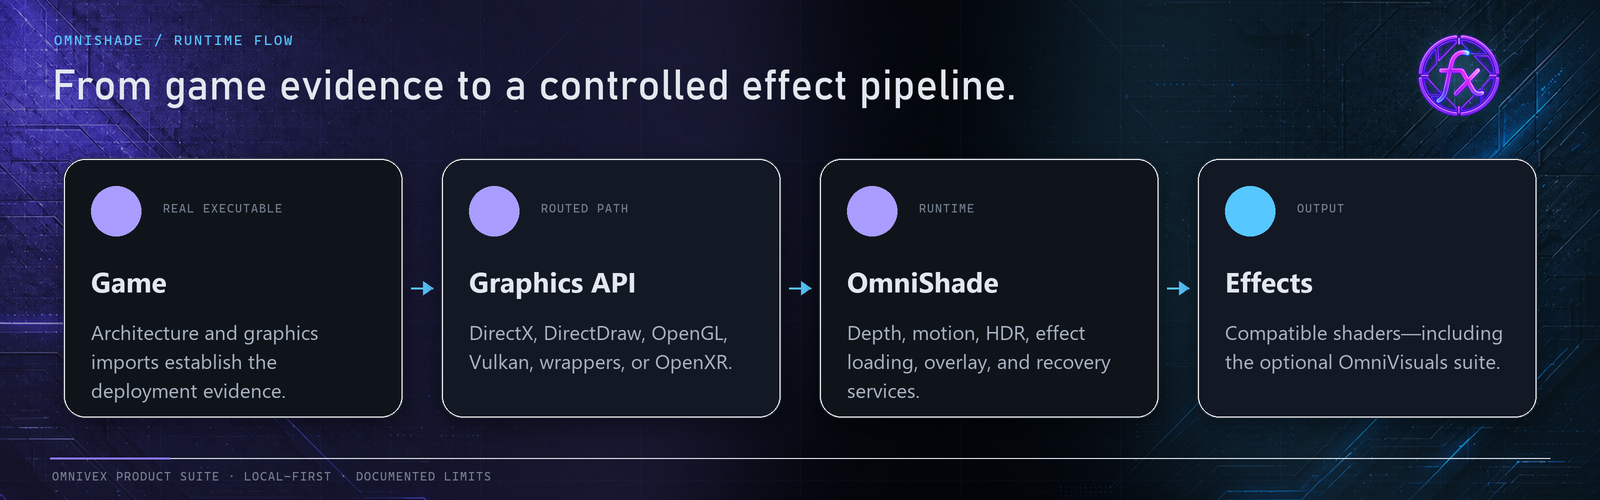
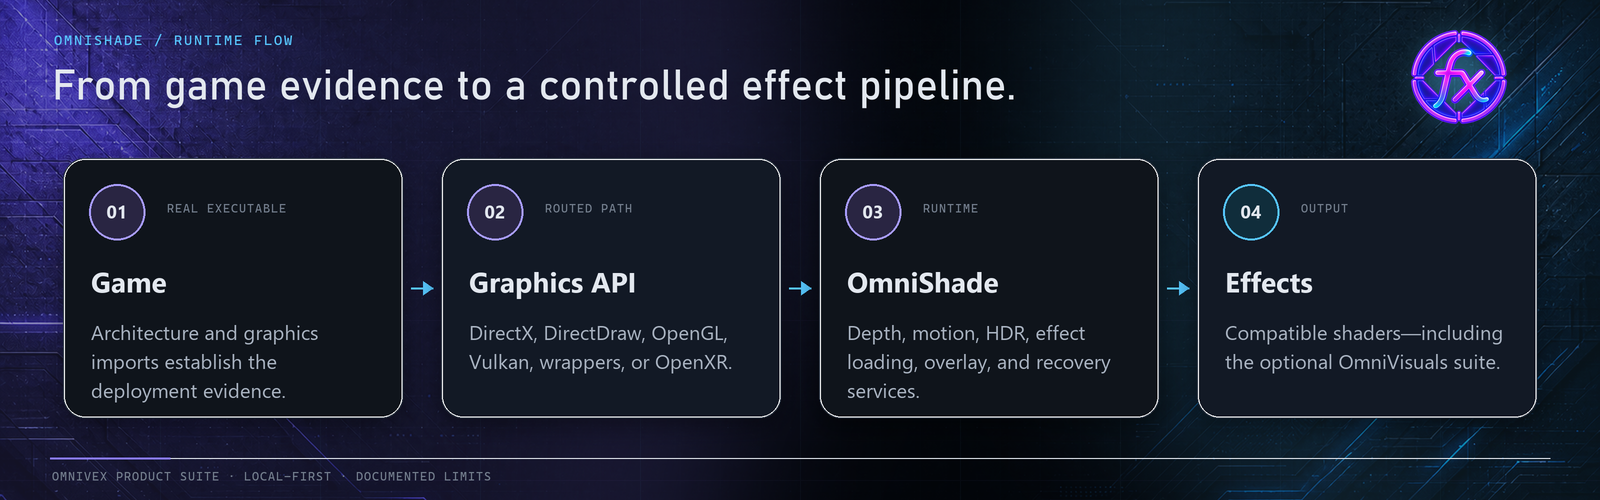
fix: refresh presentation symbols and step numbers (#17)

diff --git a/README.md b/README.md
@@ -44,7 +44,7 @@
 
 OmniShade is a game-first, ReShade-derived post-processing runtime. It brings renderer-aware setup, dependable per-title recovery, a focused in-game interface, and a modern effects foundation together in one package—without turning ordinary play into a developer workflow.
 
-![OmniShade capability map covering renderer-aware setup, Depth Buffer 2.0, the modern effect runtime, and the player-first overlay](assets/presentation/capabilities.png?v=20260823-visible-numbers-v3)
+![OmniShade capability map covering renderer-aware setup, Depth Buffer 2.0, the modern effect runtime, and the player-first overlay](assets/presentation/capabilities.png?v=20260825-symbol-number-v4)
 
 | Game-aware | Reversible | Player-focused |
 |---|---|---|
@@ -80,7 +80,7 @@ OmniShade does not promise universal compatibility, guaranteed frame-rate gains,
 
 ## How it fits together
 
-![OmniShade runtime flow from the selected game through its graphics API and OmniShade into compatible effects](assets/presentation/workflow.png)
+![OmniShade runtime flow from the selected game through its graphics API and OmniShade into compatible effects](assets/presentation/workflow.png?v=20260825-symbol-number-v4)
 
 **OmniShade is the runtime.** **OmniVisuals is the optional shader suite.** OmniVisuals remains shader-only, installs separately, and requires a genuine OmniShade installation. OmniToggler remains integrated into OmniShade.
 
